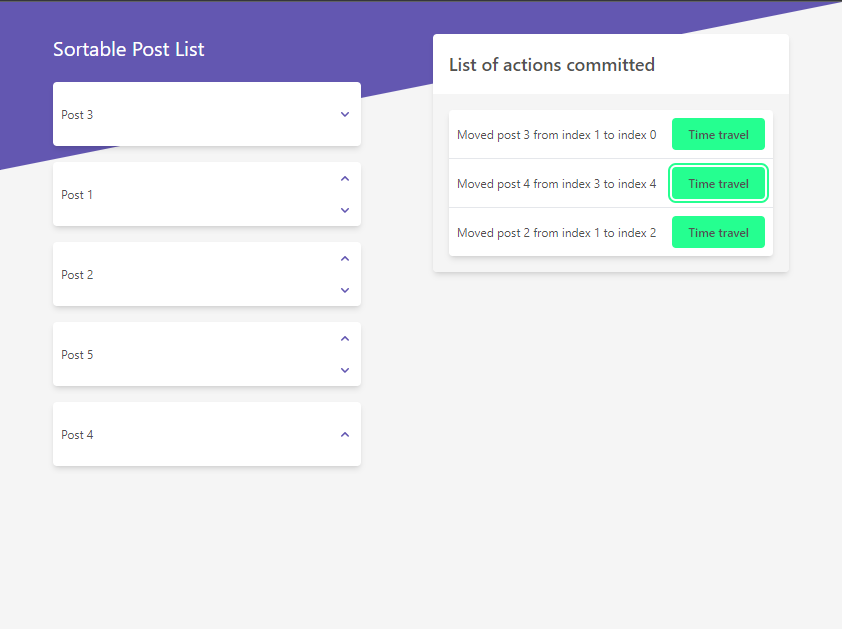
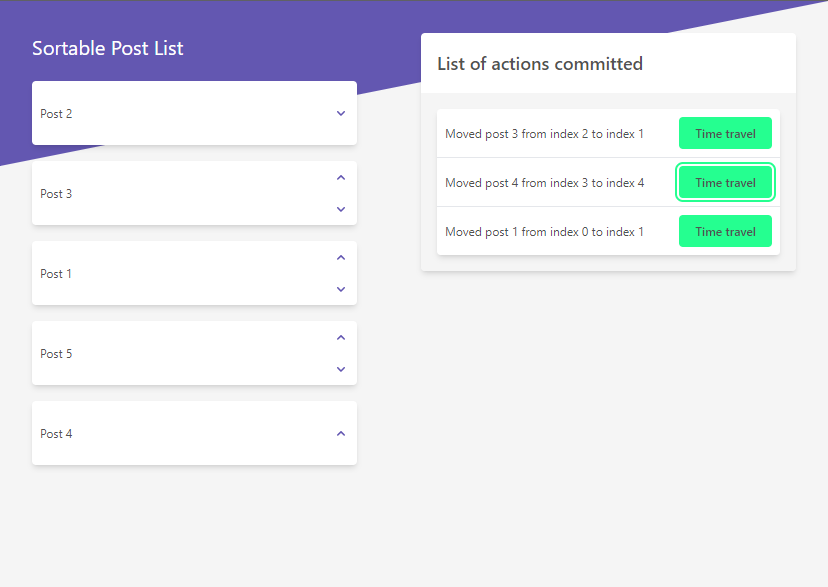
Size adjustments

diff --git a/src/App.vue b/src/App.vue
@@ -14,7 +14,7 @@
   <div
     class="absolute -z-10 border-b-[20vw] border-l-[100vw] border-b-transparent border-l-secondary"
   ></div>
-  <div class="mx-auto grid max-w-[800px] gap-14 p-8 sm:grid-cols-[1fr_1.1fr]">
+  <div class="mx-auto grid max-w-[900px] gap-12 p-8 sm:grid-cols-[1fr_1.1fr]">
     <PostsList
       element="main"
       :posts="storePost.posts"
